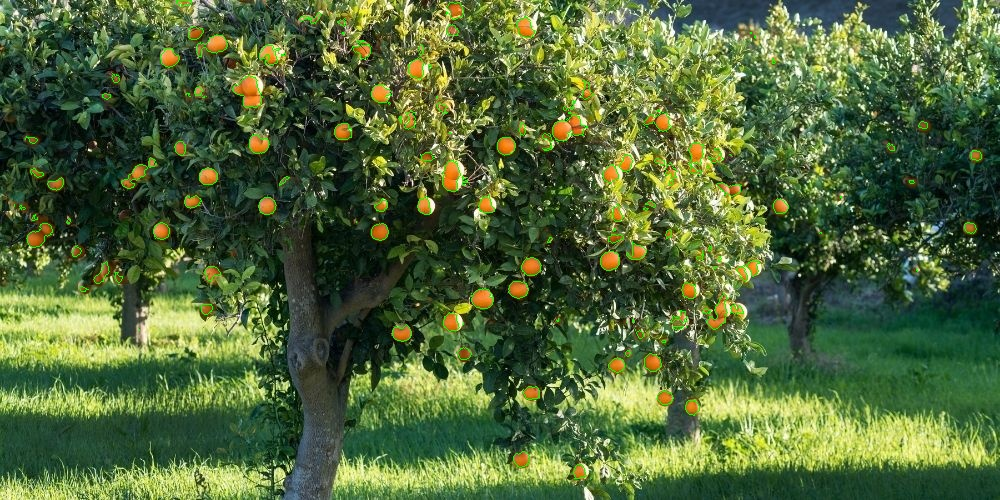
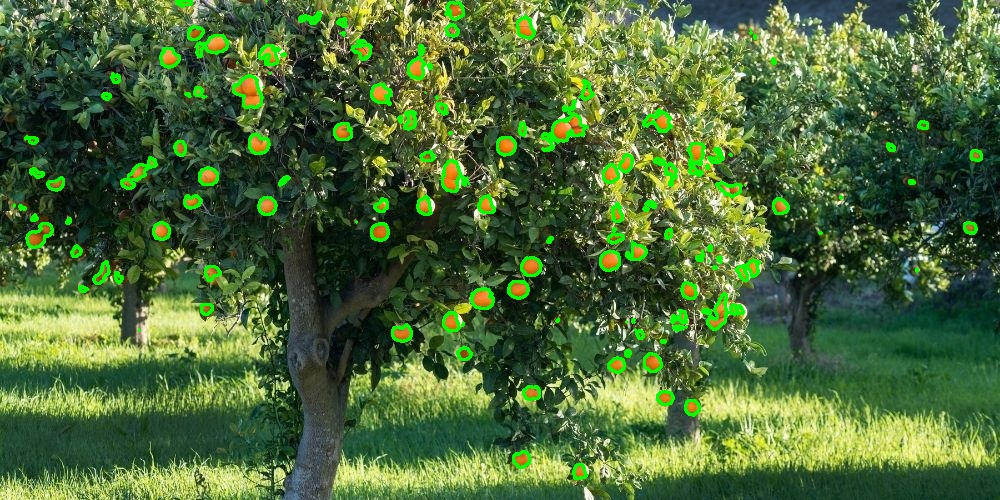
bettercontours

diff --git a/main.py b/main.py
@@ -150,11 +150,25 @@ print(f"Accepted_areas: {accepted_areas}")
 
 
 #TODO Usar better_contours en vez de contours
+for cnt in contours:
+   area = cv2.contourArea(cnt)
+   if area in accepted_areas:
+      better_contours.append(cnt)
+print("len better contours")
+print(len(better_contours))
+
+imgContours = cv2.drawContours(image, contours, -1, (0,255,0), 1)
+cv2.imwrite("contours_with_area.jpg", imgContours)
+print("len contours")
+num_naranjas = len(contours)
+print(num_naranjas)
+#print(f"Número de naranjas contornos con area {num_naranjas}")
+showWait("Contours",imgContours)
 
 imgBetterContours = cv2.drawContours(image, contours, -1, (0,255,0), 1)
 cv2.imwrite("contours_with_area.jpg", imgBetterContours)
 print("len contours")
-num_naranjas = len(contours)
+num_naranjas = len(better_contours)
 print(num_naranjas)
 #print(f"Número de naranjas contornos con area {num_naranjas}")
 showWait("BetterContours",imgBetterContours)
